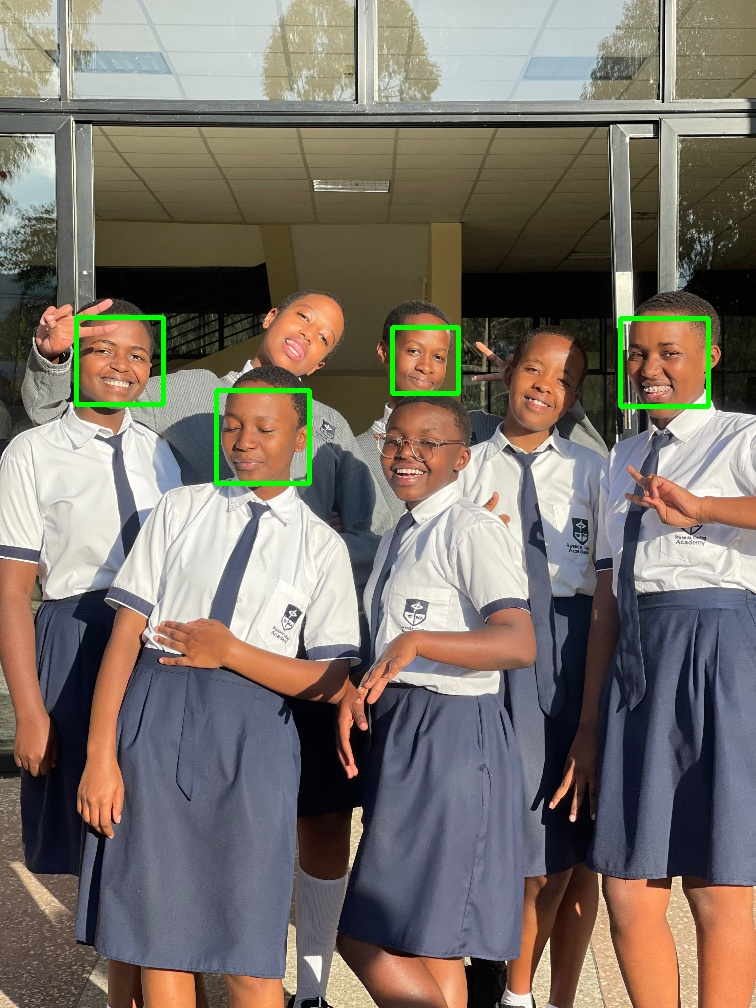
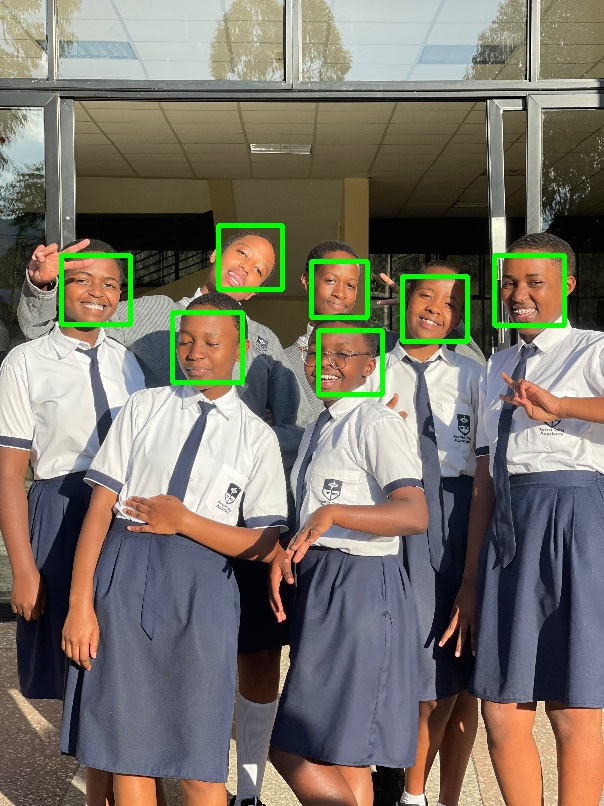
face detection troubleshot

diff --git a/Detection_and_Tracking/06_detect_faces.py b/Detection_and_Tracking/06_detect_faces.py
@@ -5,7 +5,7 @@ face_cascade = cv2.CascadeClassifier(cv2.data.haarcascades + "haarcascade_fronta
 
 # Step 2: Read the image
 og_image = cv2.imread("girl_faces.jpeg")
-image = cv2.resize(og_image, (og_image.shape[1] // 4, og_image.shape[0] // 4))
+image = cv2.resize(og_image, (og_image.shape[1] // 5, og_image.shape[0] // 5))
 if image is None:
     print("Error: Image not found!")
     exit()
@@ -14,7 +14,7 @@ if image is None:
 gray = cv2.cvtColor(image, cv2.COLOR_BGR2GRAY)
 
 # Step 4: Detect faces in the image
-faces = face_cascade.detectMultiScale(gray, scaleFactor=1.1, minNeighbors=5, minSize=(30, 30))
+faces = face_cascade.detectMultiScale(gray, scaleFactor=1.05, minNeighbors=3, minSize=(20, 20))
 
 # Step 5: Draw rectangles around detected faces
 for (x, y, w, h) in faces:
